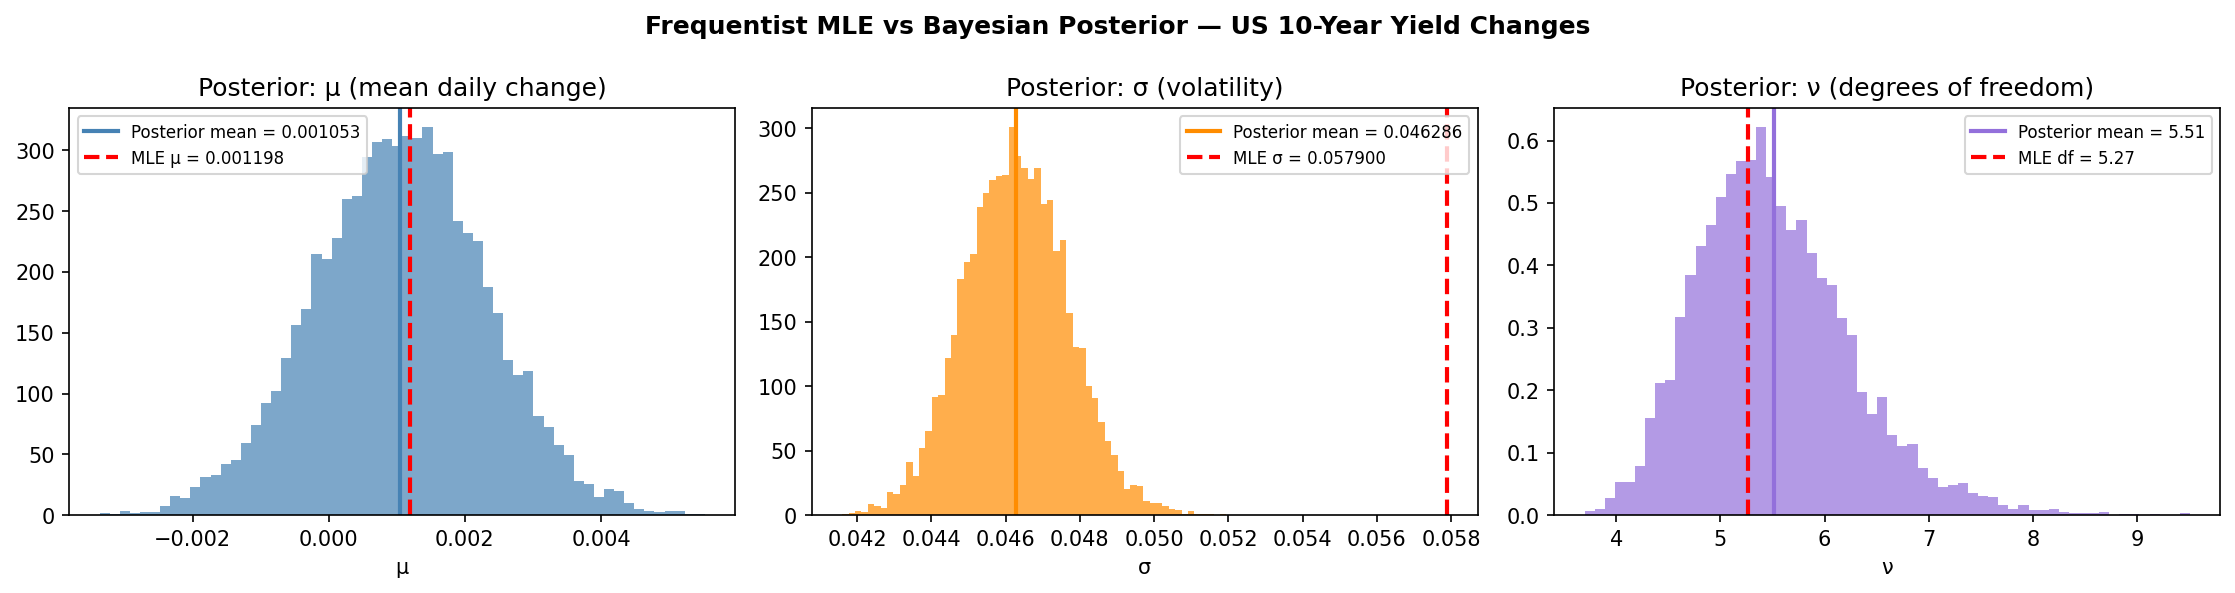
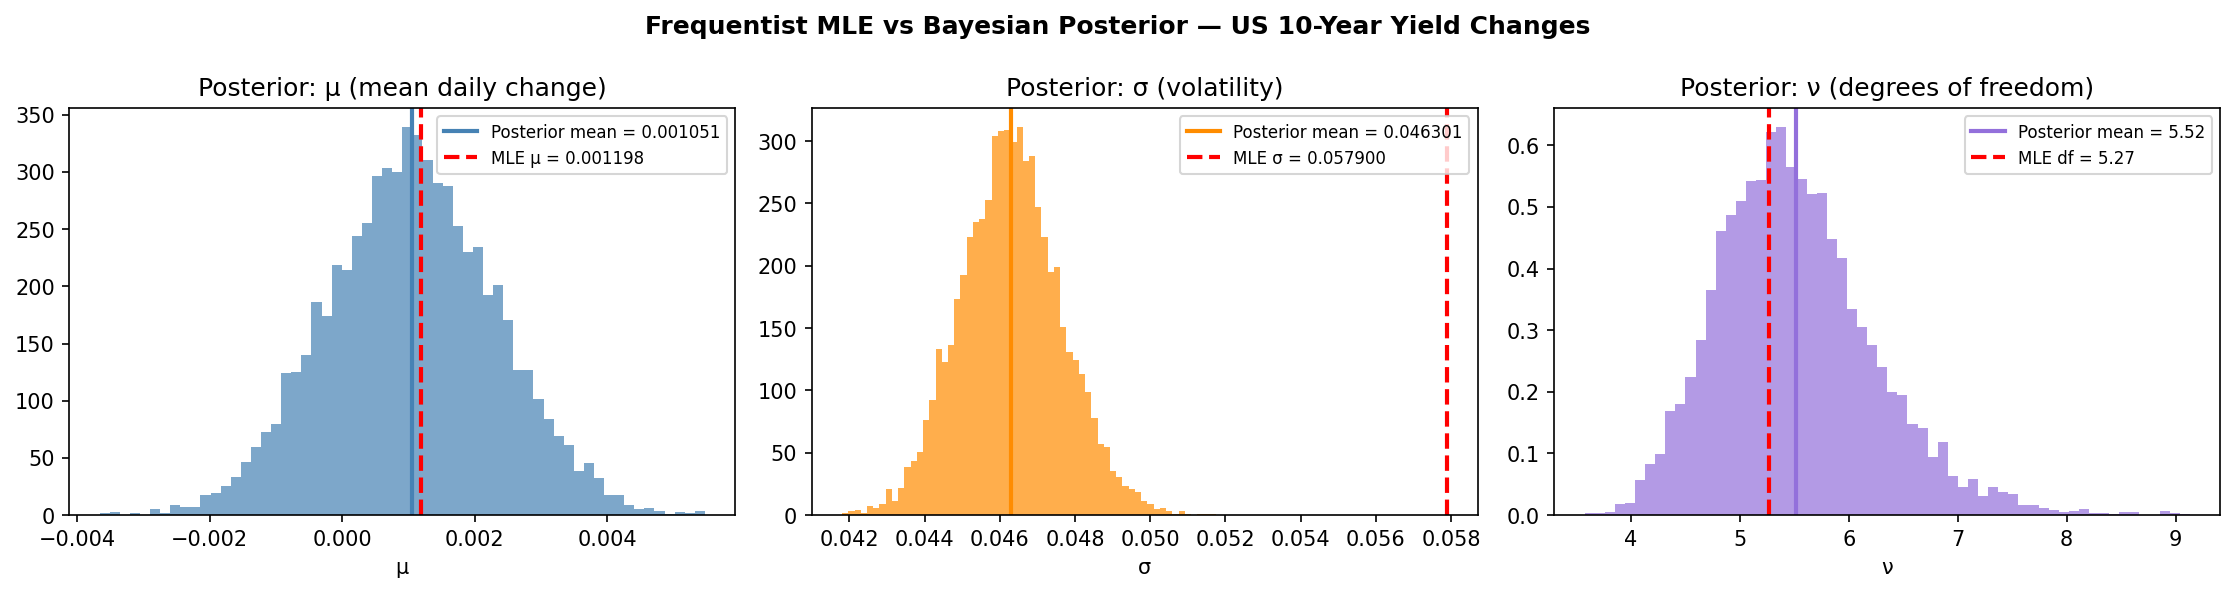
changes + requirements.txt

diff --git a/artefact1.py b/artefact1.py
@@ -8,10 +8,7 @@
 
 # IMPORTS
 
-import os
 import warnings
-import pathlib
-import requests
 import numpy as np
 import pandas as pd
 import scipy.stats as stats
@@ -24,18 +21,11 @@ import arviz as az
 warnings.filterwarnings("ignore")
 
 
-# =============================================================================
 # CONFIGURATION
-# =============================================================================
 
 START_DATE  = "2018-01-01"   # 7 years — captures pre-COVID, COVID, hike cycle
 END_DATE    = "2025-01-01"
 OUTPUT_PATH = "us_10yr_yield.csv"
-
-# Create output directories if they don't exist
-pathlib.Path("../data/raw").mkdir(parents=True, exist_ok=True)
-pathlib.Path("../data/estimates").mkdir(parents=True, exist_ok=True)
-
 
 
 # DATA INGESTION
@@ -51,6 +41,7 @@ def fetch_yfinance(start: str, end: str) -> pd.DataFrame:
     Returns:
         DataFrame with daily yield (Close) indexed by Date.
     """
+
     raw = yf.download("^TNX", start=start, end=end, auto_adjust=True, progress=False)
 
     if raw.empty:
@@ -66,55 +57,8 @@ def fetch_yfinance(start: str, end: str) -> pd.DataFrame:
     df.index.name = "Date"
     df.index = pd.to_datetime(df.index)
     print(f"yfinance: fetched {len(df)} trading days  |  "
-          f"range: {df.index[0].date()} → {df.index[-1].date()}")
+          f"range: {df.index[0].date()} -> {df.index[-1].date()}")
     return df
-
-
-def fetch_fred(start: str, end: str, api_key: str = None) -> pd.DataFrame:
-    """
-    Fetch DGS10 (US 10-Year Treasury yield) from FRED REST API.
-    Fallback if yfinance is unavailable.
-
-    Args:
-        start:   Start date string (YYYY-MM-DD).
-        end:     End date string (YYYY-MM-DD).
-        api_key: Optional FRED API key. Get one free at https://fred.stlouisfed.org
-
-    Returns:
-        DataFrame with daily yield indexed by Date, or empty DataFrame on failure.
-    """
-    key = api_key or os.environ.get("FRED_API_KEY", "")
-    url = "https://api.stlouisfed.org/fred/series/observations"
-    params = {
-        "series_id":         "DGS10",
-        "observation_start": start,
-        "observation_end":   end,
-        "file_type":         "json",
-    }
-    if key:
-        params["api_key"] = key
-
-    try:
-        resp = requests.get(url, params=params, timeout=15)
-        resp.raise_for_status()
-    except requests.RequestException as e:
-        print(f"FRED request failed: {e}")
-        return pd.DataFrame()
-
-    observations = resp.json().get("observations", [])
-    if not observations:
-        print("FRED returned no observations.")
-        return pd.DataFrame()
-
-    df = pd.DataFrame(observations)[["date", "value"]]
-    df["date"]  = pd.to_datetime(df["date"])
-    df["value"] = pd.to_numeric(df["value"], errors="coerce")
-    df = df.rename(columns={"date": "Date", "value": "yield_pct"}).set_index("Date")
-    df = df.dropna()
-    print(f"FRED: fetched {len(df)} trading days  |  "
-          f"range: {df.index[0].date()} → {df.index[-1].date()}")
-    return df
-
 
 
 # DATA VALIDATION
@@ -127,16 +71,17 @@ def validate_data(yield_df: pd.DataFrame) -> None:
     Args:
         yield_df: DataFrame with yield_pct column indexed by Date.
     """
+
     print("=== Data Quality Report ===")
     print(f"Shape:          {yield_df.shape}")
-    print(f"Date range:     {yield_df.index.min().date()} → {yield_df.index.max().date()}")
+    print(f"Date range:     {yield_df.index.min().date()} -> {yield_df.index.max().date()}")
     print(f"Missing values: {yield_df['yield_pct'].isna().sum()}")
     print(f"Missing %:      {yield_df['yield_pct'].isna().mean()*100:.2f}%")
     print()
     print("=== Descriptive Statistics ===")
     print(yield_df["yield_pct"].describe().round(4))
 
-    # Sanity check — 10yr yield should be between 0% and 15% in modern era
+    # Sanity check 
     out_of_range = yield_df[
         (yield_df["yield_pct"] < 0) | (yield_df["yield_pct"] > 15)
     ]
@@ -147,9 +92,8 @@ def validate_data(yield_df: pd.DataFrame) -> None:
         print("\nRange check PASSED — all values within expected bounds (0–15%).")
 
 
-# =============================================================================
+
 # FEATURE ENGINEERING
-# =============================================================================
 
 def engineer_features(yield_df: pd.DataFrame) -> pd.DataFrame:
     """
@@ -185,7 +129,7 @@ def plot_eda(yield_df: pd.DataFrame, save_path: str = "../data/raw/yield_eda.png
     """
     fig, axes = plt.subplots(3, 1, figsize=(12, 10))
     fig.suptitle(
-        "US 10-Year Treasury Yield (^TNX / DGS10) — EDA",
+        "US 10-Year Treasury Yield (^TNX) — EDA",
         fontsize=13, fontweight="bold"
     )
 
@@ -226,7 +170,7 @@ def plot_eda(yield_df: pd.DataFrame, save_path: str = "../data/raw/yield_eda.png
     plt.tight_layout()
     plt.savefig(save_path, dpi=150, bbox_inches="tight")
     plt.close()
-    print(f"EDA plot saved → {save_path}")
+    print(f"EDA plot saved -> {save_path}")
 
 
 
@@ -318,22 +262,18 @@ def plot_distribution(
     plt.tight_layout()
     plt.savefig(save_path, dpi=150, bbox_inches="tight")
     plt.close()
-    print(f"Distribution plot saved → {save_path}")
+    print(f"Distribution plot saved -> {save_path}")
 
     # Key insight
     print("\n=== KEY INSIGHT FOR REPORT ===")
     if ks_p < 0.05 or sw_p < 0.05:
-        print(f"Normality REJECTED — excess kurtosis = {kurt:.2f}")
+        print(f"Normality REJECTED, excess kurtosis = {kurt:.2f}")
         print("Daily yield changes have heavier tails than a Normal distribution.")
-        print("This justifies using a Student-t likelihood in both MLE and Bayesian models,")
-        print("and demonstrates why a point estimate (MLE) understates tail risk.")
     else:
         print("Normality not rejected at α=0.05.")
 
 
-# =============================================================================
 # FREQUENTIST MLE
-# =============================================================================
 
 def fit_frequentist(changes: pd.Series) -> dict:
     """
@@ -405,10 +345,10 @@ def fit_bayesian(changes_np: np.ndarray, draws: int = 2000, tune: int = 1000) ->
         sigma = pm.HalfNormal("sigma", sigma=0.05)
         nu    = pm.Gamma("nu",    alpha=2,  beta=0.1)
 
-        # Student-t likelihood — appropriate given excess kurtosis > 0
+        # Student-t likelihood, appropriate given excess kurtosis > 0
         pm.StudentT("likelihood", mu=mu, sigma=sigma, nu=nu, observed=changes_np)
 
-        # NUTS sampler — target_accept=0.95 reduces divergences vs default 0.8
+        # NUTS sampler — target_accept=0.95 
         trace = pm.sample(
             draws=draws,
             tune=tune,
@@ -417,8 +357,6 @@ def fit_bayesian(changes_np: np.ndarray, draws: int = 2000, tune: int = 1000) ->
         )
 
     summary = az.summary(trace, var_names=["mu", "sigma", "nu"], round_to=4)
-    print("\nBayesian Inference Summary:")
-    print(summary)
 
     # Convergence check
     print("\n=== Convergence Diagnostics ===")
@@ -494,7 +432,7 @@ def plot_comparison(
     plt.tight_layout()
     plt.savefig(save_path, dpi=150, bbox_inches="tight")
     plt.close()
-    print(f"Comparison plot saved → {save_path}")
+    print(f"Comparison plot saved -> {save_path}")
 
     # Credible intervals
     print("\n=== Bayesian 94% Credible Intervals ===")
@@ -532,7 +470,7 @@ def plot_comparison(
         f"[{np.percentile(sigma_samples,3):.6f}, {np.percentile(sigma_samples,97):.6f}]"
     )
     print(
-        f"{'nu (df)':<12} {df_t:>14.2f} "
+        f"{'nu':<12} {df_t:>14.2f} "
         f"{'N/A':>22} "
         f"{nu_samples.mean():>12.2f} "
         f"[{np.percentile(nu_samples,3):.2f}, {np.percentile(nu_samples,97):.2f}]"
@@ -542,9 +480,7 @@ def plot_comparison(
     return mu_samples, sigma_samples, nu_samples
 
 
-# =============================================================================
 # EXPORT — DATA CONTRACT
-# =============================================================================
 
 def export_data_contract(yield_df: pd.DataFrame, output_path: str) -> None:
     """
@@ -552,7 +488,7 @@ def export_data_contract(yield_df: pd.DataFrame, output_path: str) -> None:
 
     Output columns:
         yield_pct    — daily closing yield level (%)
-        daily_change — first difference of yield (bp-equivalent change)
+        daily_change — first difference of yield (percentage points)
         vol_21d      — 21-day rolling std of daily changes (uncertainty proxy)
 
     Args:
@@ -562,7 +498,7 @@ def export_data_contract(yield_df: pd.DataFrame, output_path: str) -> None:
     output = yield_df[["yield_pct", "daily_change", "vol_21d"]].copy()
     output = output.ffill()   # Forward-fill US holidays to align with ASX calendar
     output.to_csv(output_path)
-    print(f"Data contract saved → {output_path}  shape={output.shape}")
+    print(f"Data contract saved -> {output_path}  shape={output.shape}")
 
 
 # =============================================================================
@@ -570,18 +506,15 @@ def export_data_contract(yield_df: pd.DataFrame, output_path: str) -> None:
 # =============================================================================
 
 def main():
-    print(f"Date range: {START_DATE} → {END_DATE}")
+    print(f"Date range: {START_DATE} -> {END_DATE}")
     print("=" * 60)
 
     # 1. Ingest
     yield_df = fetch_yfinance(START_DATE, END_DATE)
     if yield_df.empty:
-        print("Falling back to FRED...")
-        yield_df = fetch_fred(START_DATE, END_DATE)
-    if yield_df.empty:
-        print("ERROR: Both data sources failed. Check internet connection.")
+        print("ERROR: No data ingested. Exiting pipeline.")
         return
-
+    
     # 2. Feature engineering
     yield_df = engineer_features(yield_df)
 
